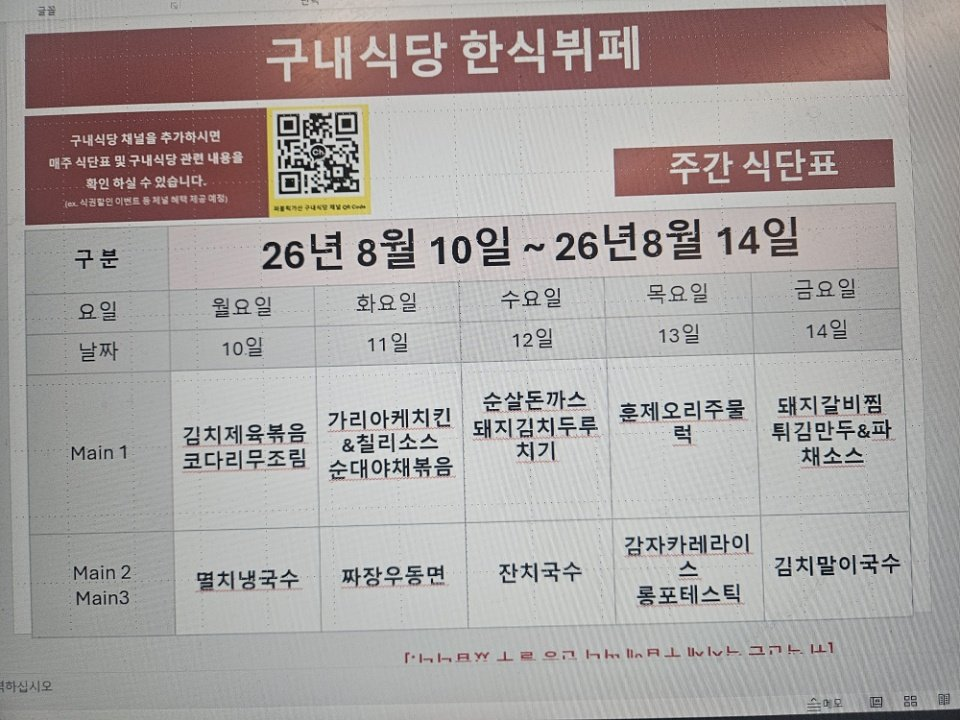
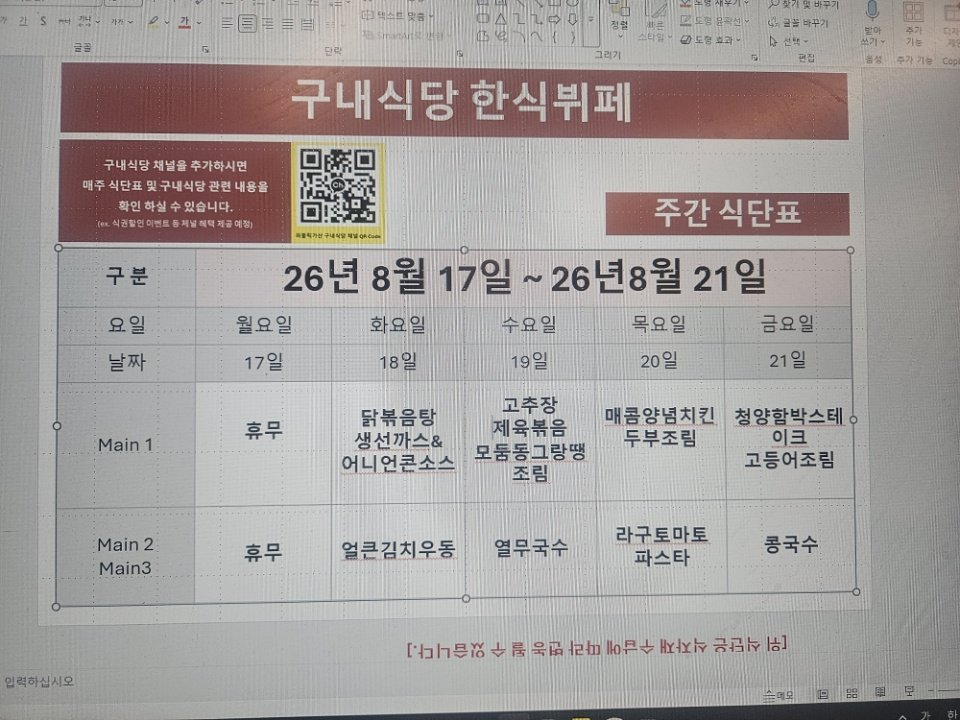
Update menu board assets

diff --git a/menu-today/index.html b/menu-today/index.html
@@ -209,7 +209,7 @@
 
     <section class="meta-bar">
       <div class="meta-card"><div class="meta-label">기준 날짜</div><div class="meta-value">2026년 8월 17일 월요일</div></div>
-      <div class="meta-card"><div class="meta-label">최종 가져온 시간</div><div class="meta-value">2026-08-17 11:17:51</div></div>
+      <div class="meta-card"><div class="meta-label">최종 가져온 시간</div><div class="meta-value">2026-08-17 11:33:17</div></div>
       <div class="meta-card"><div class="meta-label">확인 완료</div><div class="meta-value">9개 식당</div></div>
       <div class="meta-card"><div class="meta-label">준비중</div><div class="meta-value">3개 채널</div></div>
     </section>
@@ -285,7 +285,7 @@
             <div class="sub">퍼블릭가산C동</div>
           </div>
         </div>
-        <div class="menu-inline-image"><img src="./images/public-gasan.png" alt="퍼블릭가산 구내식당 식단 이미지"></div><div class="info-note">현재는 메인메뉴만 공개됐습니다.</div><ul><li>순살돈까스</li><li>순대야채볶음</li><li>김치제육볶음</li></ul>
+        <div class="menu-inline-image"><img src="./images/public-gasan.png" alt="퍼블릭가산 구내식당 식단 이미지"></div><div class="info-note">현재는 메인메뉴만 공개됐습니다.</div>
       </article>
 
       <article class="restaurant-card">

diff --git a/guro-menu/index.html b/guro-menu/index.html
@@ -32,7 +32,7 @@
   </header>
   <section class="meta">
     <div><small>기준 날짜</small><strong>2026년 8월 17일 월요일</strong></div>
-    <div><small>최종 갱신</small><strong>2026-08-17 11:18:01</strong></div>
+    <div><small>최종 갱신</small><strong>2026-08-17 11:33:30</strong></div>
     <div><small>등록 식당</small><strong>5개</strong></div>
   </section>
   <div class="notice">공개 카카오 채널의 메뉴 이미지를 자동 수집하고 OCR로 정리합니다. 텍스트에 오타가 있을 수 있으니 식단 이미지를 함께 확인해 주세요.</div>
